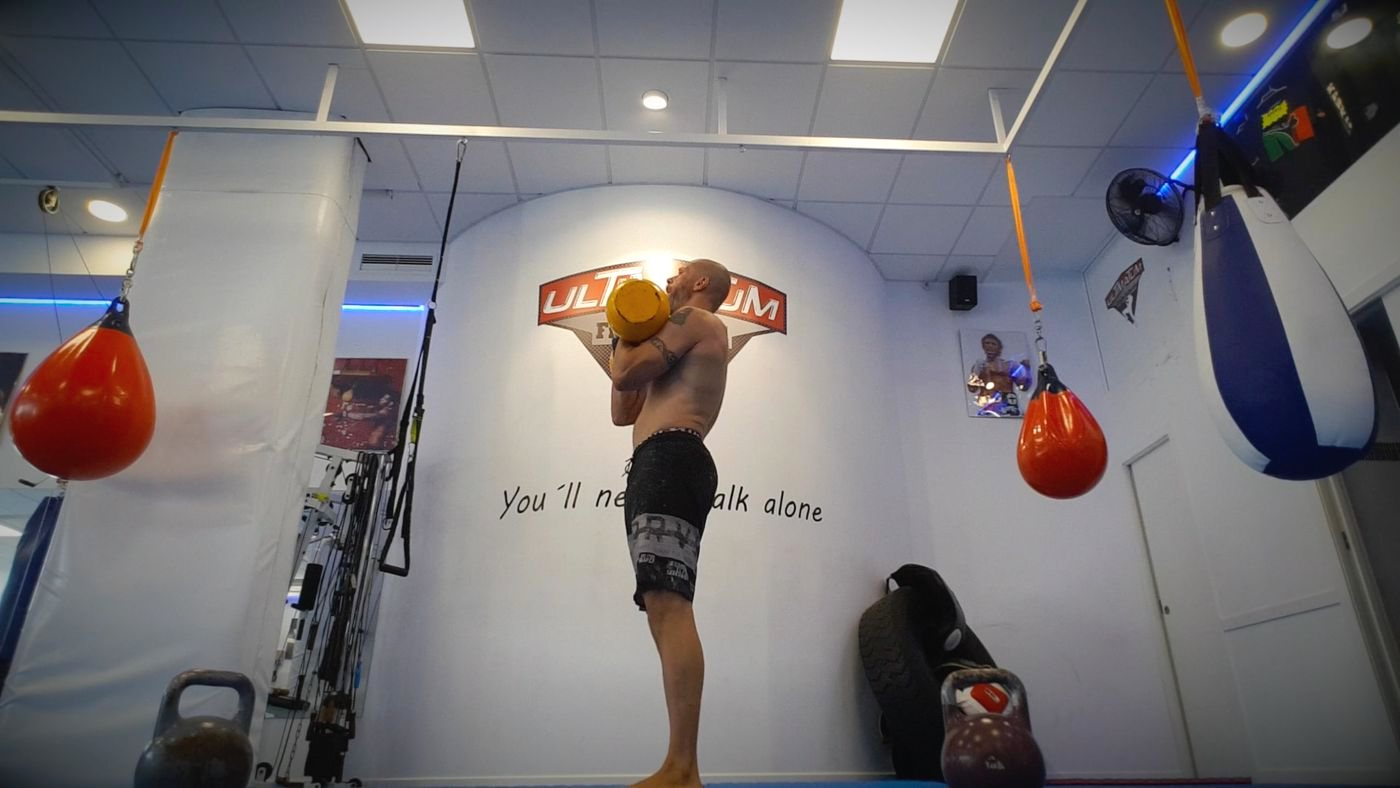
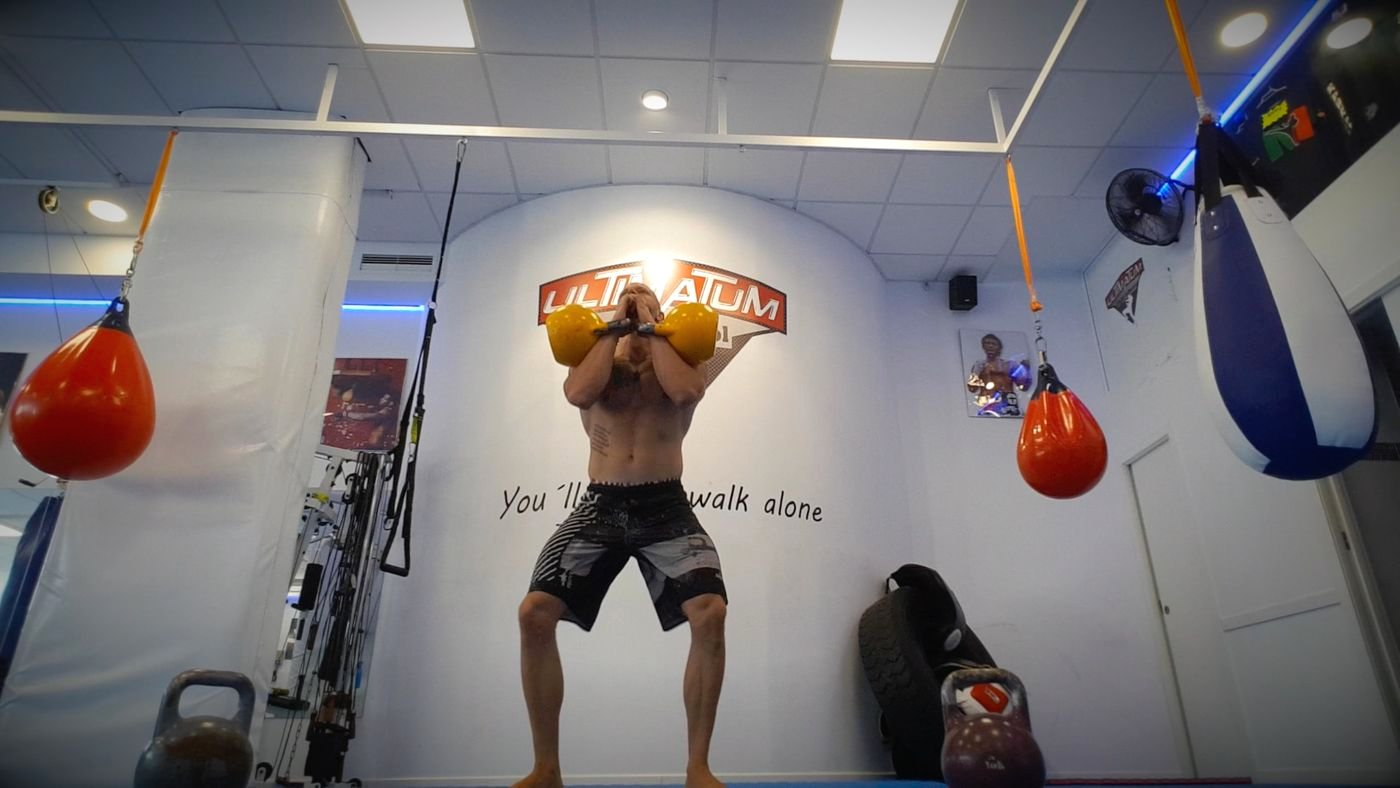
Freebuff: Confirmed. Apply ONLY the following changes:

Changed region(s): [[0.3686, 0.3046, 0.5221, 1.0], [0.2764, 0.5482, 0.3071, 0.7005], [0.7986, 0.2132, 0.86, 0.3046]]

diff --git a/src/data/exercise-media.ts b/src/data/exercise-media.ts
@@ -30,6 +30,9 @@ export interface ExerciseMediaRecord {
   cardSrc: string;
   /** Second photo frame used to build the detail cross-fade loop. */
   loopFrame?: string;
+  /** Commons source for `loopFrame`, so the second frame stays auditable. */
+  loopSourceTitle?: string;
+  loopSourceUrl?: string;
   /**
    * Set to "contain" when the source is narrower than the media area, so it is
    * letterboxed inside the existing surface instead of being upscaled.
@@ -226,21 +229,6 @@ export const EXERCISE_MEDIA: Record<string, ExerciseMediaRecord> = {
     licenseUrl: "https://creativecommons.org/licenses/by/2.0/",
     author: "PTPioneer",
   },
-  "triceps-pushdown": {
-    kind: "photo",
-    src: "/exercises/triceps-pushdown-0.jpg",
-    cardSrc: "/exercises/triceps-pushdown-0.jpg",
-    loopFrame: "/exercises/triceps-pushdown-1.jpg",
-    // 850px wide — narrower than the media area, so it is letterboxed rather
-    // than upscaled. No higher-resolution free asset exists for this lift.
-    fit: "contain",
-    sourceTitle: "Triceps Pushdown (free-exercise-db)",
-    sourceUrl:
-      "https://github.com/yuhonas/free-exercise-db/blob/main/exercises/Triceps_Pushdown/0.jpg",
-    license: "Unlicense (public domain)",
-    licenseUrl: "https://unlicense.org/",
-    author: "free-exercise-db contributors",
-  },
   "barbell-back-squat": {
     kind: "photo",
     src: "/exercises/barbell-back-squat.jpg",
@@ -256,8 +244,11 @@ export const EXERCISE_MEDIA: Record<string, ExerciseMediaRecord> = {
     kind: "photo",
     src: "/exercises/kettlebell-front-squat.jpg",
     cardSrc: "/exercises/kettlebell-front-squat.jpg",
-    sourceTitle: "Kettlebell Front Squat 1.jpg",
-    sourceUrl: `${COMMONS_FILE}Kettlebell_Front_Squat_1.jpg`,
+    loopFrame: "/exercises/kettlebell-front-squat-2.jpg",
+    loopSourceTitle: "Kettlebell Front Squat 6 Full Extension.jpg",
+    loopSourceUrl: `${COMMONS_FILE}Kettlebell_Front_Squat_6_Full_Extension.jpg`,
+    sourceTitle: "Kettlebell Front Squat 7 Quarter Down.jpg",
+    sourceUrl: `${COMMONS_FILE}Kettlebell_Front_Squat_7_Quarter_Down.jpg`,
     license: "CC BY-SA 4.0",
     licenseUrl: "https://creativecommons.org/licenses/by-sa/4.0/",
     author: "Taco fleur",
@@ -336,6 +327,16 @@ export const EXERCISE_MEDIA: Record<string, ExerciseMediaRecord> = {
     author: "Tiia Monto",
   },
 };
+
+/**
+ * Exercises deliberately left without media.
+ *
+ * Each entry was audited for a reliable, correctly licensed, full-resolution
+ * free asset showing that exact movement. None exists at a resolution that can
+ * fill the media area without upscaling, so these render the ELBODY
+ * placeholder rather than a low-resolution or approximate image.
+ */
+export const EXERCISES_WITHOUT_MEDIA = new Set<string>(["triceps-pushdown"]);
 
 export function getExerciseMedia(slug: string | undefined) {
   return slug ? EXERCISE_MEDIA[slug] : undefined;

diff --git a/scripts/check-media.ts b/scripts/check-media.ts
@@ -15,7 +15,10 @@ import { join } from "node:path";
 import sharp from "sharp";
 
 import { EXERCISES } from "../src/data/exercises";
-import { EXERCISE_MEDIA } from "../src/data/exercise-media";
+import {
+  EXERCISE_MEDIA,
+  EXERCISES_WITHOUT_MEDIA,
+} from "../src/data/exercise-media";
 
 /** The details media area renders at ~976x549; cards at ~240x150. */
 const DETAIL_WIDTH = 976;
@@ -78,12 +81,24 @@ async function checkImage(slug: string, label: string, src: string, minWidth: nu
 
 for (const exercise of EXERCISES) {
   const media = EXERCISE_MEDIA[exercise.slug];
+  const verifiedUnavailable = EXERCISES_WITHOUT_MEDIA.has(exercise.slug);
+
+  if (!media && verifiedUnavailable) {
+    // Declared as audited and intentionally placeholder-only.
+    continue;
+  }
 
   if (!media) {
     problems.push(
-      `${exercise.slug}: no media record — the details page will show the placeholder.`,
+      `${exercise.slug}: no media record and no EXERCISES_WITHOUT_MEDIA entry — the details page will show the placeholder.`,
     );
     continue;
+  }
+
+  if (verifiedUnavailable) {
+    problems.push(
+      `${exercise.slug}: listed in EXERCISES_WITHOUT_MEDIA but still has a media record.`,
+    );
   }
 
   if (!media.sourceUrl || !media.license || !media.author) {
@@ -160,6 +175,14 @@ for (const slug of Object.keys(EXERCISE_MEDIA)) {
   }
 }
 
+for (const slug of EXERCISES_WITHOUT_MEDIA) {
+  if (!slugs.has(slug)) {
+    problems.push(
+      `EXERCISES_WITHOUT_MEDIA has "${slug}", which is not an exercise slug.`,
+    );
+  }
+}
+
 if (problems.length > 0) {
   console.error("Media check failed:\n");
   for (const problem of problems) console.error(`  - ${problem}`);
@@ -167,8 +190,9 @@ if (problems.length > 0) {
 }
 
 const videoCount = Object.values(EXERCISE_MEDIA).filter((m) => m.kind === "video").length;
+const placeholderCount = EXERCISES_WITHOUT_MEDIA.size;
 console.log(
-  `Media check passed: ${EXERCISES.length} exercises, all with media (${videoCount} video, ${
-    EXERCISES.length - videoCount
-  } photo).`,
+  `Media check passed: ${EXERCISES.length} exercises — ${videoCount} video, ${
+    EXERCISES.length - videoCount - placeholderCount
+  } photo, ${placeholderCount} verified-unavailable (placeholder).`,
 );

diff --git a/scripts/fetch-exercise-media.ts b/scripts/fetch-exercise-media.ts
@@ -18,7 +18,10 @@ import { join } from "node:path";
 
 import sharp from "sharp";
 
-import { EXERCISE_MEDIA } from "../src/data/exercise-media";
+import {
+  EXERCISE_MEDIA,
+  EXERCISES_WITHOUT_MEDIA,
+} from "../src/data/exercise-media";
 
 /** The details media area renders at ~976px wide; stay above it, never below. */
 const MAX_IMAGE_WIDTH = 1400;
@@ -156,6 +159,10 @@ async function main() {
   for (const [slug, media] of Object.entries(EXERCISE_MEDIA)) {
     const fileName = commonsFileName(media.sourceUrl);
 
+    if (EXERCISES_WITHOUT_MEDIA.has(slug)) {
+      continue;
+    }
+
     try {
       if (!fileName) {
         // Non-Commons source (free-exercise-db): fetch each frame directly.
@@ -216,6 +223,22 @@ async function main() {
           info.lumaShift
         })${fits ? "" : " TOO NARROW"}`,
       );
+
+      if (media.loopFrame && media.loopSourceUrl) {
+        const loopFileName = commonsFileName(media.loopSourceUrl);
+        if (!loopFileName) {
+          throw new Error(`${slug}: loopFrame has no resolvable source URL`);
+        }
+        const loopOriginal = await download(
+          `https://commons.wikimedia.org/wiki/Special:FilePath/${loopFileName}`,
+        );
+        const loopInfo = await writeImage(loopOriginal, outputPath(media.loopFrame), {
+          crop: media.fit !== "contain",
+        });
+        console.log(
+          `${slug.padEnd(22)} loop frame ${loopInfo.width}x${loopInfo.height}`,
+        );
+      }
     } catch (error) {
       failures.push(`${slug}: ${(error as Error).message}`);
     }
